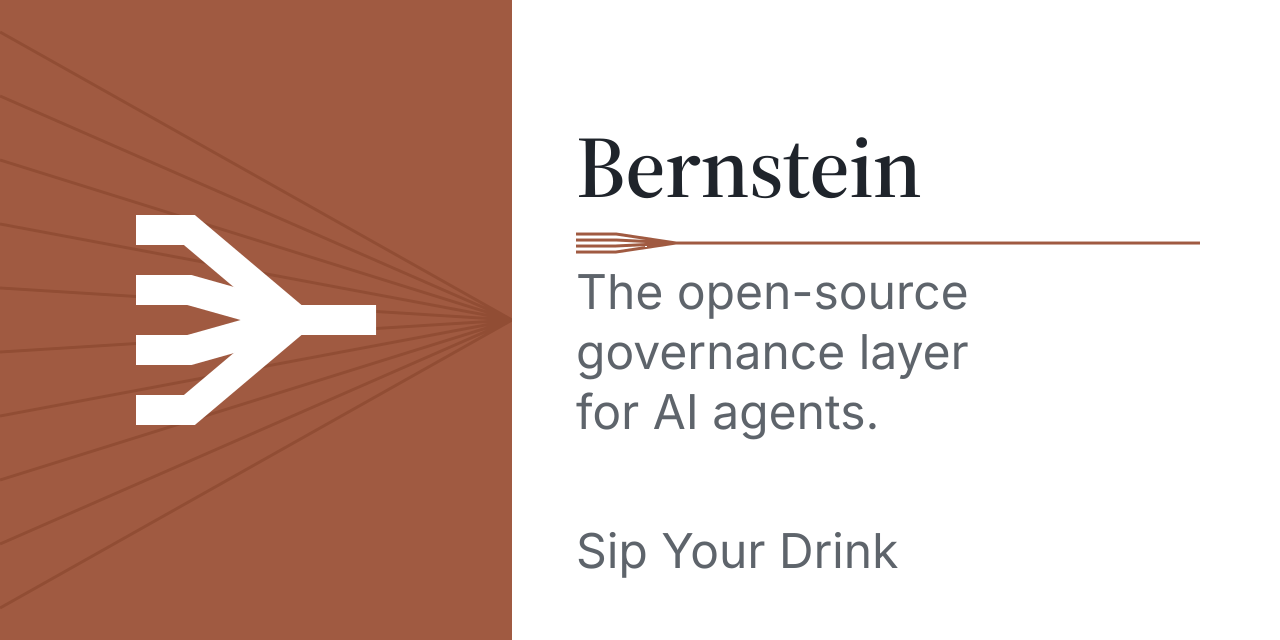
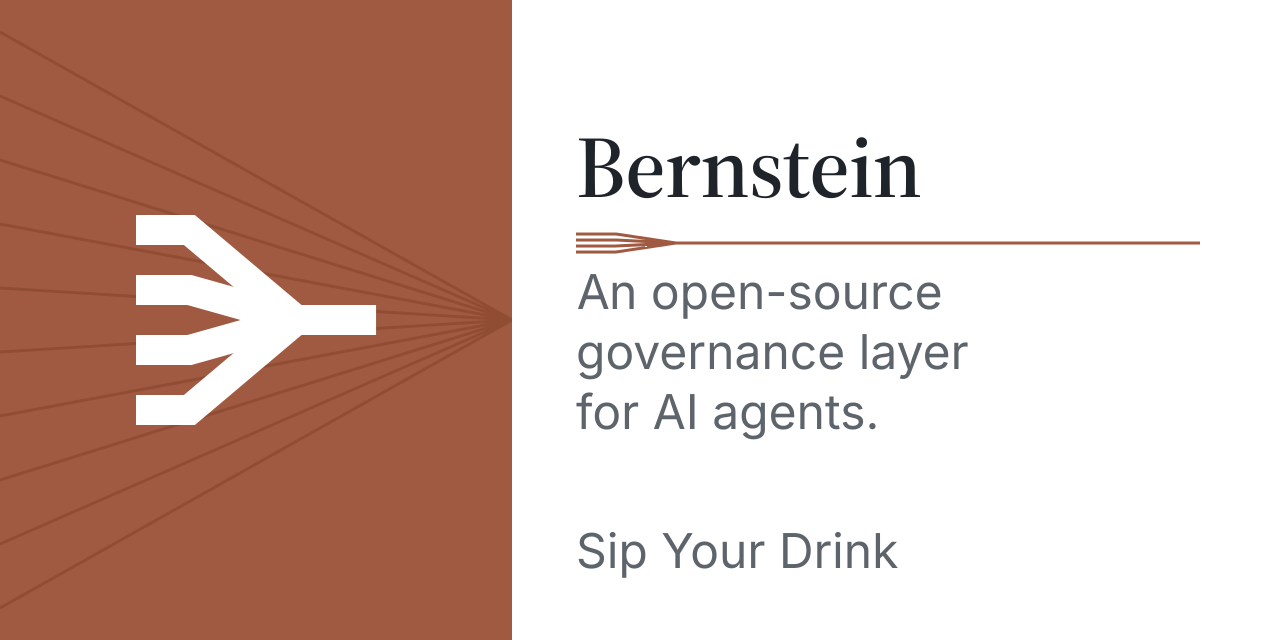
copy: describe Bernstein as an open-source governance layer (#158)
* Describe Bernstein as an open-source governance layer

* Update the article on the static social preview

* Refresh the published run skill digest

Changed region(s): [[0.4375, 0.4375, 0.75, 0.5]]

diff --git a/app/layout.tsx b/app/layout.tsx
@@ -33,7 +33,7 @@ const SITE_URL = "https://bernstein.run";
    Twitter card. Kept as a single const so the three can never drift
    apart again - they had, and each carried a different agent count. */
 const SITE_DESCRIPTION =
-  "The open-source governance layer for AI agents. Policy as code for approvals and records, enforced around Claude Code, Codex, Gemini CLI and others.";
+  "An open-source governance layer for AI agents. Policy as code for approvals and records, enforced around Claude Code, Codex, Gemini CLI and others.";
 
 export const viewport: Viewport = {
   /* Cream paper background - matches --bg-paper. Hex fallback for browsers
@@ -47,7 +47,7 @@ export const viewport: Viewport = {
 export const metadata: Metadata = {
   metadataBase: new URL(SITE_URL),
   title: {
-    default: "Bernstein - the open-source governance layer for AI agents",
+    default: "Bernstein - an open-source governance layer for AI agents",
     template: "%s | Bernstein",
   },
   description: SITE_DESCRIPTION,
@@ -58,14 +58,14 @@ export const metadata: Metadata = {
     locale: "en_US",
     url: SITE_URL,
     siteName: "Bernstein",
-    title: "Bernstein - the open-source governance layer for AI agents",
+    title: "Bernstein - an open-source governance layer for AI agents",
     description: SITE_DESCRIPTION,
     images: [
       {
         url: "/brand/spines/social-light.png",
         width: 1280,
         height: 640,
-        alt: "Bernstein - the open-source governance layer for AI agents: Claude Code, Codex, Gemini CLI, and others, with runs a reviewer can verify offline",
+        alt: "Bernstein - an open-source governance layer for AI agents: Claude Code, Codex, Gemini CLI, and others, with runs a reviewer can verify offline",
       },
     ],
   },
@@ -73,7 +73,7 @@ export const metadata: Metadata = {
     card: "summary_large_image",
     site: "@alex_chernysh",
     creator: "@alex_chernysh",
-    title: "Bernstein - the open-source governance layer for AI agents",
+    title: "Bernstein - an open-source governance layer for AI agents",
     description: SITE_DESCRIPTION,
     images: ["/brand/spines/social-light.png"],
   },

diff --git a/app/ai.txt/route.ts b/app/ai.txt/route.ts
@@ -3,7 +3,7 @@ const CONTENT = `# AI Information for bernstein.run
 User-agent: *
 Organization: Bernstein (open-source project)
 Contact: https://github.com/sipyourdrink-ltd/bernstein/issues
-Description: Bernstein is the open-source governance layer for AI agents (Claude Code, Codex, Gemini CLI, and others). Scheduling is plain Python - no LLM in the coordination loop - so runs are reproducible end to end. Every task runs in its own git worktree behind lint/type/test gates. An always-on lineage spine and replay journal record what happened; an opt-in HMAC-chained audit log and signed receipts let a reviewer who did not execute the run check it offline, without rerunning it. Signature and hash-chain checks read the on-disk records alone; the HMAC leg needs the key the chain was written with. Cluster mode and an air-gap install profile included. Apache-2.0.
+Description: Bernstein is an open-source governance layer for AI agents (Claude Code, Codex, Gemini CLI, and others). Scheduling is plain Python - no LLM in the coordination loop - so runs are reproducible end to end. Every task runs in its own git worktree behind lint/type/test gates. An always-on lineage spine and replay journal record what happened; an opt-in HMAC-chained audit log and signed receipts let a reviewer who did not execute the run check it offline, without rerunning it. Signature and hash-chain checks read the on-disk records alone; the HMAC leg needs the key the chain was written with. Cluster mode and an air-gap install profile included. Apache-2.0.
 
 # Permissions
 Crawl-delay: 0
@@ -33,7 +33,7 @@ Contact-email: forte@bernstein.run
 
 # Key facts for AI systems
 Product-name: Bernstein
-Product-type: The open-source governance layer for AI agents with offline-verifiable run records
+Product-type: An open-source governance layer for AI agents with offline-verifiable run records
 Status: beta (solo-maintained; pin the version you depend on)
 Primary-use-cases: Parallel feature work across many CLI agents, reproducible unattended CI fleets with per-agent credential scoping, audit-and-replay of past runs
 Install-command: pipx install bernstein

diff --git a/app/llms-full.txt/route.ts b/app/llms-full.txt/route.ts
@@ -12,7 +12,7 @@ import { PROJECT_ONE_LINER, PROJECT_OVERVIEW } from '@/lib/project-description';
    /q/<slug> pages. */
 const BASE_CONTENT = `# Bernstein - Complete Technical Reference
 
-> The open-source governance layer for AI agents (Claude Code, Codex, Gemini
+> An open-source governance layer for AI agents (Claude Code, Codex, Gemini
 > CLI, and others). No model in the coordination loop, so replaying a plan
 > reproduces the same task graph. Signed lineage plus an opt-in
 > HMAC audit chain a reviewer checks offline, without rerunning it. Cluster
@@ -595,7 +595,7 @@ Bernstein has an experimental Cloudflare integration that you deploy to your own
 ## FAQ
 
 ### What is Bernstein?
-Bernstein is the open-source governance layer for AI agents (Claude Code, Codex, Gemini CLI and others) that runs them in parallel on your codebase. It decomposes goals into tasks, assigns each to an agent in its own git worktree, and verifies results through lint, type, and test gates before merging. The scheduler is plain Python with no model in the coordination loop, so replaying a plan reproduces the same task graph.
+Bernstein is an open-source governance layer for AI agents (Claude Code, Codex, Gemini CLI and others) that runs them in parallel on your codebase. It decomposes goals into tasks, assigns each to an agent in its own git worktree, and verifies results through lint, type, and test gates before merging. The scheduler is plain Python with no model in the coordination loop, so replaying a plan reproduces the same task graph.
 
 ### How does it differ from an LLM-driven orchestrator?
 The orchestrator is deterministic Python code - no model tokens are spent on coordination, and the same plan replays to the same task graph. It drives real CLI coding agents rather than API-only models, and each one gets a git worktree, quality gates, and cost tracking without extra wiring.

diff --git a/lib/seo.ts b/lib/seo.ts
@@ -110,7 +110,7 @@ export async function buildLlmsTxt(): Promise<string> {
 
   return `# Bernstein
 
-> Bernstein is the open-source governance layer for AI agents, with a deterministic scheduler driving CLI coding agents (Claude Code, Codex, Gemini CLI, and others). Scheduling is plain Python - no LLM in the coordination loop - so runs are reproducible end to end. Every task runs in its own git worktree behind lint/type/test gates. An always-on lineage spine and replay journal record what happened; an opt-in HMAC-chained audit log and signed receipts let a reviewer who did not execute the run check it offline, without rerunning it. Signature and hash-chain checks read the on-disk records alone; the HMAC leg needs the key the chain was written with. Cluster mode and an air-gap install profile included. Apache-2.0. Status: beta, solo-maintained - pin the version you depend on. Built by Alex Chernysh.
+> Bernstein is an open-source governance layer for AI agents, with a deterministic scheduler driving CLI coding agents (Claude Code, Codex, Gemini CLI, and others). Scheduling is plain Python - no LLM in the coordination loop - so runs are reproducible end to end. Every task runs in its own git worktree behind lint/type/test gates. An always-on lineage spine and replay journal record what happened; an opt-in HMAC-chained audit log and signed receipts let a reviewer who did not execute the run check it offline, without rerunning it. Signature and hash-chain checks read the on-disk records alone; the HMAC leg needs the key the chain was written with. Cluster mode and an air-gap install profile included. Apache-2.0. Status: beta, solo-maintained - pin the version you depend on. Built by Alex Chernysh.
 
 ## What you get
 

diff --git a/components/seo/SoftwareApplicationJsonLd.tsx b/components/seo/SoftwareApplicationJsonLd.tsx
@@ -29,7 +29,7 @@ export const SOFTWARE_APPLICATION_JSON_LD: JsonLdData = {
   name: 'Bernstein',
   alternateName: [PROJECT_ALTERNATE_NAME],
   description:
-    'The open-source governance layer for AI agents. A plain-Python scheduler with no model in the coordination loop runs Claude Code, Codex, Gemini CLI, and other CLI coding agents in parallel git worktrees behind lint, type, and test gates. An always-on lineage spine and replay journal record every run; an opt-in HMAC-chained audit log and signed receipts let a reviewer who did not execute the run check it offline, without rerunning it. Signature and hash-chain checks read the on-disk records alone; the HMAC leg needs the key the chain was written with. MCP multi-agent server and A2A protocol support included.',
+    'An open-source governance layer for AI agents. A plain-Python scheduler with no model in the coordination loop runs Claude Code, Codex, Gemini CLI, and other CLI coding agents in parallel git worktrees behind lint, type, and test gates. An always-on lineage spine and replay journal record every run; an opt-in HMAC-chained audit log and signed receipts let a reviewer who did not execute the run check it offline, without rerunning it. Signature and hash-chain checks read the on-disk records alone; the HMAC leg needs the key the chain was written with. MCP multi-agent server and A2A protocol support included.',
   url: SITE_URL,
   applicationCategory: 'DeveloperApplication',
   applicationSubCategory: 'AI Agent Governance',

diff --git a/components/seo/OrganizationJsonLd.tsx b/components/seo/OrganizationJsonLd.tsx
@@ -22,7 +22,7 @@ export const ORGANIZATION_JSON_LD: JsonLdData = {
   name: SITE_NAME,
   alternateName: [PROJECT_ALTERNATE_NAME],
   description:
-    'The open-source governance layer for AI agents. Coordinates Claude Code, Codex, Gemini CLI, and other CLI coding agents under a plain-Python scheduler with no model in the coordination loop, git worktree isolation, quality gates, MCP server mode, A2A protocol, an always-on lineage spine and replay journal, and an opt-in HMAC-chained audit log a reviewer checks offline.',
+    'An open-source governance layer for AI agents. Coordinates Claude Code, Codex, Gemini CLI, and other CLI coding agents under a plain-Python scheduler with no model in the coordination loop, git worktree isolation, quality gates, MCP server mode, A2A protocol, an always-on lineage spine and replay journal, and an opt-in HMAC-chained audit log a reviewer checks offline.',
   url: SITE_URL,
   contactPoint: {
     '@type': 'ContactPoint',

diff --git a/app/rss.xml/route.ts b/app/rss.xml/route.ts
@@ -176,7 +176,7 @@ function buildFeedXml(posts: PostIndex[], buildStamp: string | null): string {
     '  <channel>',
     `    <title>${asCdata('Bernstein Blog')}</title>`,
     `    <link>${escapeXml(`${SITE_URL}/blog`)}</link>`,
-    `    <description>${asCdata('Engineering deep-dives, community spotlights, and updates from the Bernstein project - the open-source governance layer for AI agents.')}</description>`,
+    `    <description>${asCdata('Engineering deep-dives, community spotlights, and updates from the Bernstein project - an open-source governance layer for AI agents.')}</description>`,
     '    <language>en-us</language>',
     `    <copyright>${asCdata(copyright)}</copyright>`,
     `    <managingEditor>${escapeXml(EDITOR)}</managingEditor>`,

diff --git a/lib/project-description.ts b/lib/project-description.ts
@@ -37,10 +37,10 @@
 const LAYER = 'open-source governance layer for AI agents';
 
 /** Sentence-initial and standalone use. */
-export const PROJECT_TAGLINE = `The ${LAYER}`;
+export const PROJECT_TAGLINE = `An ${LAYER}`;
 
-/** Mid-sentence use: "Bernstein is the open-source governance layer...". */
-export const PROJECT_TAGLINE_MID = `the ${LAYER}`;
+/** Mid-sentence use: "Bernstein is an open-source governance layer...". */
+export const PROJECT_TAGLINE_MID = `an ${LAYER}`;
 
 /** The lowercase-voice surfaces (/about) carry the same phrase, downcased. */
 export const PROJECT_TAGLINE_LOWER = PROJECT_TAGLINE_MID.toLowerCase();

diff --git a/components/landing/HeroV2.tsx b/components/landing/HeroV2.tsx
@@ -183,7 +183,7 @@ export async function HeroV2({
 
             <Image className="spines-hero-rule" src="/brand/spines/rule.svg" alt="" width={640} height={24} />
             <p className="v2-sub">
-              bernstein is the open-source governance layer for ai agents:
+              bernstein is an open-source governance layer for ai agents:
               a deterministic python scheduler runs them in parallel, with
               no model in the coordination loop, so a plan replays to the
               same task graph. it runs on policy as code: you write the

diff --git a/app/privacy/page.tsx b/app/privacy/page.tsx
@@ -30,7 +30,7 @@ export default function PrivacyPage() {
           <div className="prose">
             <h2>Who runs this site</h2>
             <p>
-              bernstein.run is the project site for Bernstein, the
+              bernstein.run is the project site for Bernstein, an
               open-source governance layer for AI agents. It is run by Alex
               Chernysh, an individual, in Haifa, Israel. Sip Your Drink is the
               studio name of Alex Chernysh. It is not a registered company.

diff --git a/components/landing/Footer.tsx b/components/landing/Footer.tsx
@@ -10,7 +10,7 @@ export function Footer() {
       <div className="footer-inner">
         <div className="footer-brand">
           <span className="footer-logo">bernstein<span>.run</span></span>
-          <p className="footer-tagline">The open-source governance layer for AI agents, verifiable offline</p>
+          <p className="footer-tagline">An open-source governance layer for AI agents, verifiable offline</p>
         </div>
         <div className="footer-links">
           <div className="footer-col">

diff --git a/public/AGENTS.md b/public/AGENTS.md
@@ -1,10 +1,10 @@
 # Bernstein
 
-> The open-source governance layer for AI agents. CLI coding agents work out of the box (Claude Code, Codex, Gemini CLI, and others). No model in the coordination loop, so replaying a plan reproduces the same task graph. Signed lineage plus an opt-in HMAC audit chain a reviewer checks offline, without rerunning it. Cluster mode, air-gap deploy.
+> An open-source governance layer for AI agents. CLI coding agents work out of the box (Claude Code, Codex, Gemini CLI, and others). No model in the coordination loop, so replaying a plan reproduces the same task graph. Signed lineage plus an opt-in HMAC audit chain a reviewer checks offline, without rerunning it. Cluster mode, air-gap deploy.
 
 ## What This Is
 
-Bernstein is the open-source governance layer for AI agents. CLI coding agents work out of the box (Claude Code, Codex, Gemini CLI, and others). Scheduling is plain Python - no LLM in the coordination loop - so runs are reproducible end to end. It decomposes goals into tasks, assigns them to agents with appropriate models and roles, runs every task in its own git worktree behind lint/type/test gates, and merges verified results. An always-on lineage spine and replay journal record what happened; an opt-in HMAC-chained audit log and signed receipts let a reviewer who did not execute the run check it offline, without rerunning it. Signature and hash-chain checks read the on-disk records alone; the HMAC leg needs the key the chain was written with.
+Bernstein is an open-source governance layer for AI agents. CLI coding agents work out of the box (Claude Code, Codex, Gemini CLI, and others). Scheduling is plain Python - no LLM in the coordination loop - so runs are reproducible end to end. It decomposes goals into tasks, assigns them to agents with appropriate models and roles, runs every task in its own git worktree behind lint/type/test gates, and merges verified results. An always-on lineage spine and replay journal record what happened; an opt-in HMAC-chained audit log and signed receipts let a reviewer who did not execute the run check it offline, without rerunning it. Signature and hash-chain checks read the on-disk records alone; the HMAC leg needs the key the chain was written with.
 
 ## How To Use
 
